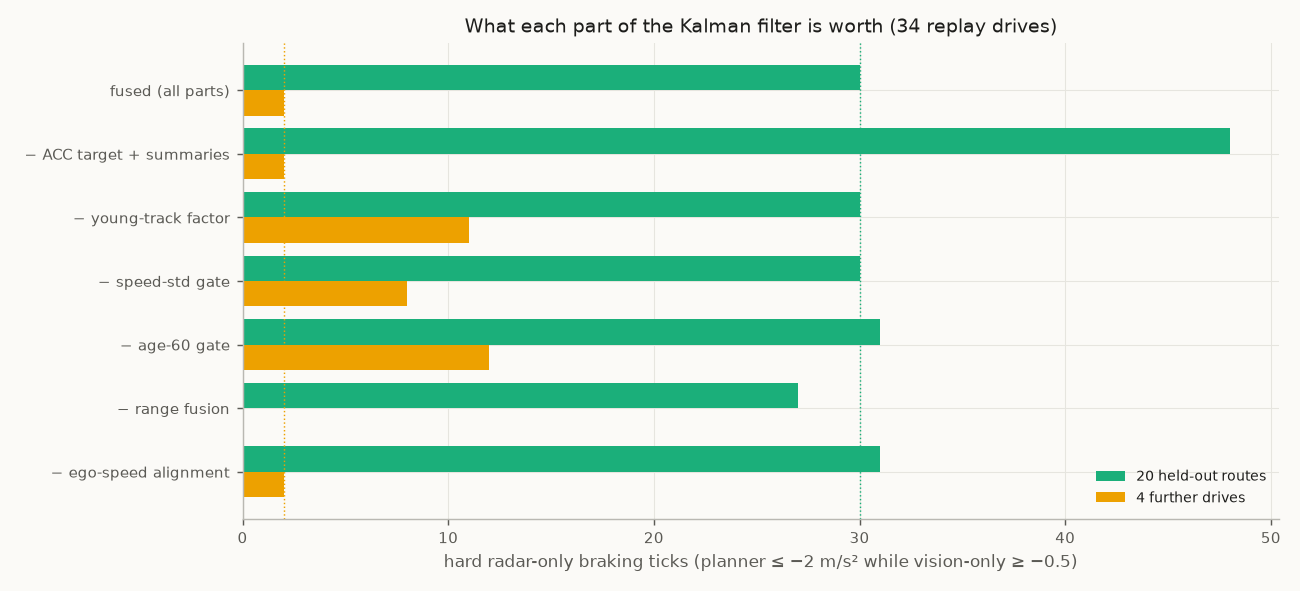
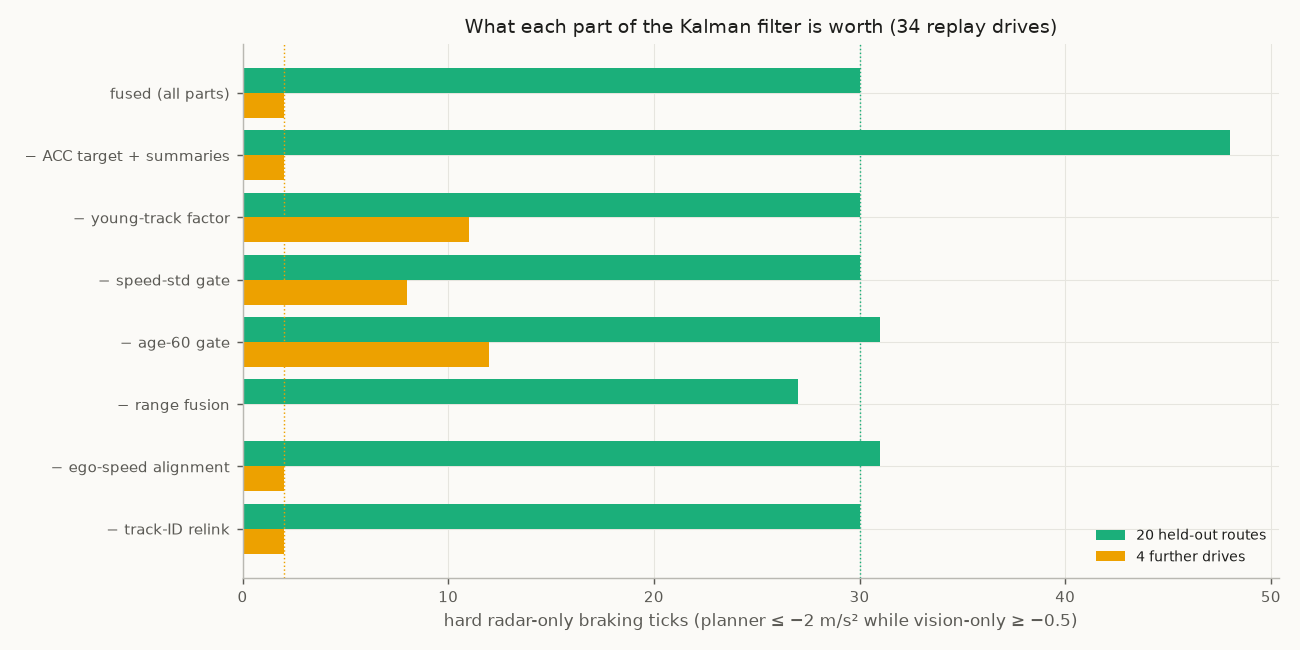
Slimming by combinations: fused drops the track-ID relink (identical on 34 + 8 drives); openpilot version = fused in one file (264 lines); combinations figure and docs/12 section

diff --git a/tools/make_fused_figures.py b/tools/make_fused_figures.py
@@ -208,7 +208,7 @@ def kalman_trace() -> None:
     class Traced(Ars510NativeRadarInterface):
         log: dict = {}
 
-        def _fused_speed(self, tid, time_s, obj, extra):
+        def _fused_speed(self, tid, time_s, obj, extra, v_ego=0.0):
             cfg = self.config
             sig = cfg.speed_sigma_per_code * max(obj.vel_unc_code, 1)
             if obj.age < cfg.young_age:
@@ -220,7 +220,7 @@ def kalman_trace() -> None:
                 p = st[2] + (cfg.lead_accel_std_mps2 * (time_s - st[0])) ** 2
                 for _, r in [(None, sig)] + list(extra):
                     k = p / (p + r * r); gains.append(k); p *= 1.0 - k
-            v, std = super()._fused_speed(tid, time_s, obj, extra)
+            v, std = super()._fused_speed(tid, time_s, obj, extra, v_ego)
             ego = self._fresh_ego_speed(time_s) or 0.0
             self.log.setdefault(tid, []).append(dict(t=time_s, raw=obj.v_long_ground * cfg.vground_scale - ego, v=v - ego,
                                                      std=std, sig=sig, n_extra=len(extra), gains=gains, d=obj.d_rel))
@@ -262,7 +262,7 @@ def kalman_ablation() -> None:
     rows = [("fused (all parts)", "none"), ("− ACC target + summaries", "acc_target_and_summaries"),
             ("− young-track factor", "young_track_factor"), ("− speed-std gate", "speed_std_publication_gate"),
             ("− age-60 gate", "age_60_publication_gate"), ("− range fusion", "range_fusion"),
-            ("− ego-speed alignment", "ego_speed_alignment")]
+            ("− ego-speed alignment", "ego_speed_alignment"), ("− track-ID relink", "track_id_relink")]
     rows += [(f"− {lab}", key) for key, lab in S.get("combinations_labels", {}).items()]
     rows = [(lab, S[key]) for lab, key in rows if isinstance(S.get(key), dict)]
     y = np.arange(len(rows))
@@ -276,7 +276,30 @@ def kalman_ablation() -> None:
     fig.tight_layout(); fig.savefig(OUT / "kalman_ablation.png", dpi=130); plt.close(fig)
 
 
+def kalman_combinations() -> None:
+    """Each tested version of the filter: lines in the openpilot file, its driving numbers, pass or fail (34 drives)."""
+    C = json.loads((REPO / "data" / "analysis" / "summaries" / "fused_filter.json").read_text())["combinations_34_drives"]
+    names = {"fused": "fused (all parts)", "no_L": "− track-ID relink", "no_SL": "− summaries − relink",
+             "no_SR": "− summaries − range fusion", "no_SRL": "− summaries − relink − range fusion",
+             "no_SRLYG": "all five removed (+ young factor, std gate)"}
+    why = {"no_SL": "1 extra target episode on owner drives", "no_SR": "lead switches +39%, target episodes 4 → 6",
+           "no_SRL": "lead switches +39%, target episodes 4 → 6", "no_SRLYG": "lead switches +39%, target episodes 4 → 5"}
+    rows = sorted(((names[k], k, C[k]) for k in names if k in C), key=lambda r: -r[2]["openpilot_file_lines"])
+    fig, ax = plt.subplots(figsize=(13.5, 0.62 * len(rows) + 1.3))
+    y = np.arange(len(rows))
+    ax.barh(y, [r["openpilot_file_lines"] for _, _, r in rows], color=[FUS if r["passes"] else S4 for _, _, r in rows], height=0.6)
+    for yi, (name, key, r) in zip(y, rows):
+        ax.text(r["openpilot_file_lines"] + 4, yi, f'{r["openpilot_file_lines"]} lines', va="center", fontsize=8.5, color=INK)
+        ax.text(375, yi, f'hard {r["heldout"]} / {r["further"]} / {r["owner"]}   target eps {r["target_episodes"]} (owner {r["owner_target_episodes"]})'
+                f'   switches {r["switches"]}', va="center", fontsize=8.2, color=INK2)
+        ax.text(700, yi, "passes" if r["passes"] else why.get(key, "fails"), va="center", fontsize=8.2,
+                color=FUS if r["passes"] else S4)
+    ax.set_yticks(y, [n for n, _, _ in rows]); ax.invert_yaxis(); ax.set_xlim(0, 960); ax.set_xticks([0, 100, 200, 300])
+    ax.set_xlabel("lines in the openpilot version (upstream/ars510_radar.py)")
+    ax.set_title("Fewest lines for the same driving: parts removed together (34 replay drives; hard ticks held-out / further / owner)")
+    fig.tight_layout(); fig.savefig(OUT / "kalman_combinations.png", dpi=130); plt.close(fig)
+
 if __name__ == "__main__":
     OUT.mkdir(parents=True, exist_ok=True)
-    how_it_works(); scenarios(); layers(); vs_vision(); kalman_variants(); kalman_trace(); kalman_ablation()
-    print("wrote", *(OUT / n for n in ("fused_how_it_works.png", "fused_scenarios_a.png", "fused_scenarios_b.png", "profile_layers.png", "profiles_vs_vision.png", "kalman_variants.png", "kalman_trace.png", "kalman_ablation.png")))
+    how_it_works(); scenarios(); layers(); vs_vision(); kalman_variants(); kalman_trace(); kalman_ablation(); kalman_combinations()
+    print("wrote", *(OUT / n for n in ("fused_how_it_works.png", "fused_scenarios_a.png", "fused_scenarios_b.png", "profile_layers.png", "profiles_vs_vision.png", "kalman_variants.png", "kalman_trace.png", "kalman_ablation.png", "kalman_combinations.png")))

diff --git a/ars510/interface.py b/ars510/interface.py
@@ -131,9 +131,12 @@ BASE_CONFIG = NativeInterfaceConfig(
     min_publish_age=60, relink_max_gap_s=3.5, vground_scale=0.149 / 0.15, drop_unresolved_vrel=True,
     drop_saturated_codes=True,
 )
-# The default install profile (docs/07, docs/11): the base decode plus range fusion and one uncertainty-weighted speed
-# filter per track that fuses the object list, the radar's ACC target and its summary ranges.
-FUSED_CONFIG = replace(BASE_CONFIG, range_fusion_gain=0.1, drop_saturated_codes=False, fused_speed_filter=True)
+# The default install profile (docs/12, docs/11): the base decode plus range fusion and one uncertainty-weighted speed
+# filter per track that fuses the object list, the radar's ACC target and its summary ranges. The track-ID relink and the
+# saturation guard of the base decode are off: neither changes the driving with the filter on (docs/12). The openpilot
+# version (upstream/ars510_radar.py) is this profile in one file.
+FUSED_CONFIG = replace(BASE_CONFIG, range_fusion_gain=0.1, relink_max_gap_s=0.0, drop_saturated_codes=False,
+                       fused_speed_filter=True)
 
 # Experimental (fork only, docs/12 "Kalman variants tested"): fused with the object-list error as a 1.2 s Gauss-Markov
 # bias state, noise scaled by ego speed and the radar's acceleration reading (fitted on the hidden-ACC teacher). 15%

diff --git a/tests/test_profiles_and_ports.py b/tests/test_profiles_and_ports.py
@@ -149,9 +149,9 @@ def test_legacy_upgrade_inside_parent_git_worktree_restores_originals(tmp_path):
   assert not (toyota / "ars510_radar_interface.py").exists()
 
 
-def test_fused_is_raw_plus_range_fusion_and_one_speed_filter_without_the_guard():
+def test_fused_is_raw_plus_range_fusion_and_one_speed_filter_without_relink_or_guard():
   from dataclasses import fields
   from ars510 import FUSED_CONFIG
   diff = {f.name for f in fields(BASE_CONFIG) if getattr(BASE_CONFIG, f.name) != getattr(FUSED_CONFIG, f.name)}
-  assert diff == {"range_fusion_gain", "drop_saturated_codes", "fused_speed_filter"}
+  assert diff == {"range_fusion_gain", "relink_max_gap_s", "drop_saturated_codes", "fused_speed_filter"}
   assert FUSED_CONFIG.range_fusion_gain == 0.1 and not FUSED_CONFIG.drop_saturated_codes

diff --git a/tests/test_upstream_candidate.py b/tests/test_upstream_candidate.py
@@ -10,14 +10,11 @@ from pathlib import Path
 
 import pytest
 
-from dataclasses import replace
-
 from ars510 import FUSED_CONFIG, BASE_CONFIG, Ars510NativeRadarInterface
 
 REPO = Path(__file__).resolve().parents[1]
 SAMPLES = sorted((REPO / "data" / "sample").glob("*.csv.gz"))
-# fused without the track-ID relink: identical driving on 34 replay drives and 8 fresh drives (docs/12)
-OPENPILOT_EQUIVALENT = replace(FUSED_CONFIG, relink_max_gap_s=0.0)
+OPENPILOT_EQUIVALENT = FUSED_CONFIG  # the openpilot version is the default profile in one file
 
 
 def _fake_opendbc() -> dict:

diff --git a/docs/12_kalman_filter.md b/docs/12_kalman_filter.md
@@ -72,8 +72,8 @@ stays radard's job; a speed + acceleration state here did worse ([below](#kalman
 
 ### 0. The plain decode (every profile)
 
-- **Rule:** publish from age 60 (~3.6 s); subtract 0xB4 ego speed (× 0.149/0.15); no point without a fresh ego speed;
-  keep a track's ID across losses ≤ 3.5 s.
+- **Rule:** publish from age 60 (~3.6 s); subtract 0xB4 ego speed (× 0.149/0.15); no point without a fresh ego speed.
+  `raw` also keeps a track's ID across losses ≤ 3.5 s (relink); `fused` does not need it.
 - **Why:** young tracks have unconverged range and speed ([02](02_object_list.md)); one NaN poisons radard's filter.
 
 ### 1. Saturation guard (`raw`)
@@ -104,6 +104,7 @@ Each part removed from `fused` on its own, 34 replay drives (hard radar-only tic
 | the age-60 publication gate (age 6) | 31 | 12 | 0 (radar-only braking ×3) | needed |
 | range fusion | 27 | 0 | 0 | braking neutral (milder radar-added episodes 1 → 3 in 4.6 h); kept for lead stability: radar ↔ vision lead switches +39% without it |
 | the ego-speed alignment (× 0.149/0.15) | 31 | 2 | 0 | neutral (onset +12 ms); one measured constant |
+| the track-ID relink | 30 | 2 | 0 | identical in every measure (lead switches 1770 vs 1772): removed |
 | the saturation guard | identical | identical | identical | removed: the 3σ update absorbs the sentinel |
 
 Against the earlier tuned profile: held-out hard ticks 48 → 30, target episodes 9 → 4, owner-drive target episodes
@@ -112,7 +113,30 @@ over-estimated closing speed (0.54 m/s more closing than vision before those dri
 Dropped variants: adapting the process noise follows far slot slides as if they were braking; without the robust
 clamp a +10 m/s spike passes.
 
-### Kalman variants tested
+## Removing parts together
+
+One-at-a-time removals can hide parts that only matter together, so the larger parts were also removed in combination
+on the same 34 drives. The rule for "same driving as `fused`" was fixed before the results:
+- held-out hard ticks ≤ 33 and further-drive hard ticks ≤ 4;
+- no hard ticks and no target episodes on the owner drives;
+- target episodes ≤ 5;
+- lead-source switches at most +15 %;
+- onset within ±0.03 s of `fused`.
+
+![fewest lines for the same driving](img/analysis/kalman_combinations.png)
+
+- **The track-ID relink is free:** removing it changes nothing.
+- **The summaries matter only at the margin:** without them (and relink), one mild extra slowdown appears on the owner
+  drives (−1.1 m/s² for 0.5 s at 103 m), which fails the rule.
+- **Range fusion keeps the lead stable:** every version without it flips between radar and vision leads about 39 % more
+  often.
+- **The young-track factor and the speed-std gate cost about 5 lines** and still help in the barest version.
+
+The smallest version with the same driving is `fused` without the relink. That is the default profile, and the
+openpilot version ([`upstream/ars510_radar.py`](../upstream/ars510_radar.py), 264 lines) is exactly this profile in
+one file ([`fused_filter.json`](../data/analysis/summaries/fused_filter.json) `combinations_34_drives`).
+
+## Kalman variants tested
 
 The single speed state of `fused` was compared with richer filters on an offline bench: every cycle of 8 drive groups,
 the radar's ACC target hidden as the reference, tuned on 3 groups and scored on the rest. The best candidates were then
@@ -133,7 +157,7 @@ The colored-noise filter is the textbook fix for the object list's slow, correla
 let go of a large drift that recovers. Real driving rewards letting go quickly, so `fused` keeps one speed state.
 The fork build keeps it as the experimental `colored` profile (`COLORED_CONFIG`) for road tests.
 
-### Other approaches tested
+## Other approaches tested
 
 None is in a profile.
 
@@ -145,7 +169,7 @@ None is in a profile.
 | camera-looming veto | no planner benefit |
 | Kalman filter with maneuver adaptation or a range state | follows far slot slides / biased by the range-speed mismatch ([fused](#the-model)) |
 
-### Earlier approach: tuned layers (removed)
+## Earlier approach: tuned layers (removed)
 
 Before the Kalman filter, five tuned layers each targeted one measured failure: far smoothing, a velocity-jump guard,
 far-track settling, a ramp limiter (+4 / −6 m/s²) and ±3 m/s clips to the ACC target and summaries (17 tuned

diff --git a/docs/08_openpilot_integration.md b/docs/08_openpilot_integration.md
@@ -39,8 +39,8 @@ One installer serves every fork: it copies the decoder and appends a 4-line hook
    reassembles 0x80 records, checks the CRC32 and decodes the 20 slots. Ego speed for vRel comes from 0xB4 on bus 0 in
    the same packets. Cost: about 9 µs per call on a desktop CPU.
 4. **Output.** `RadarPoint(trackId, dRel, yRel, vRel)` for tracks aged ≥ 60 cycles (with `fused`, also once their
-   speed is known to ±0.75 m/s), with track IDs re-linked across
-   short losses and no point published without a fresh ego speed (vRel is never NaN). Forks whose RadarPoint still
+   speed is known to ±0.75 m/s), with the radar's own track IDs (`raw` also re-links them across short losses) and no
+   point published without a fresh ego speed (vRel is never NaN). Forks whose RadarPoint still
    has the legacy fields (sunnypilot) also get:
    - `yvRel`: the radar's lateral ground velocity minus yaw rate × range, with the yaw rate from Toyota 0x24
      (matches the phone gyro at 1.02×). It follows d(yRel)/dt at r = 0.88 with slope 0.86, since the radar filters
@@ -103,7 +103,8 @@ What each setting does (examples and plots in [07](12_kalman_filter.md)):
 
 | setting | profiles | effect |
 |---|---|---|
-| `min_publish_age=60`, `relink_max_gap_s=3.5` | all | a track is published after ~3.6 s, once range and velocity have converged; a lost and re-found track keeps its ID |
+| `min_publish_age=60` | all | a track is published after ~3.6 s, once range and velocity have converged |
+| `relink_max_gap_s=3.5` | raw | a lost and re-found track keeps its ID; with the speed filter it changes nothing (34 drives), so `fused` leaves it off |
 | `vground_scale=0.149/0.15`, `drop_unresolved_vrel` | all | ego-speed alignment against Toyota 0xB4; no point without a fresh ego speed (radard's filter never recovers from NaN) |
 | `drop_saturated_codes` | raw | withholds the invalid velocity code 1023/0 and restarts the track ID afterwards (the filter's robust update absorbs it in `fused`) |
 | `range_fusion_gain=0.1` | fused | predicts dRel with vRel and corrects 10% toward the measurement: halves 1.5 s range walks |
@@ -114,7 +115,8 @@ What each setting does (examples and plots in [07](12_kalman_filter.md)):
 radard (openpilot, September 2026) runs at the model's 20 Hz:
 
 - **Kalman filter on vLead only.** One filter per track ID; a NaN vRel would poison it permanently (the interface
-  never publishes one). A new track ID resets it, which is why IDs are re-linked.
+  never publishes one). A new track ID resets it; `raw` therefore re-links IDs across short losses, while
+  `fused` hands radard an already filtered speed, so a reset changes nothing measurable there.
 - **Matching needs a vision lead.** radard matches a radar track to the vision lead while the lead probability is
   above 0.5, with a distance gate of max(5 m, 25%) and a permissive velocity check.
   Matching is evaluated each tick without previous-lead hysteresis; if the camera still selects the departing

diff --git a/docs/10_research_directions.md b/docs/10_research_directions.md
@@ -133,12 +133,13 @@ The closest relative in openpilot is the Tesla Model 3's Continental radar (`tes
 ## Towards an upstream (comma) interface
 
 The integration works on every fork without changing openpilot. For upstream there is a separate, single-file
-candidate: [`upstream/ars510_radar.py`](../upstream/ars510_radar.py) (about 300 lines). It holds the reassembler, the
-slot decode, track IDs, the ACC target / summary association and the same Kalman speed filter as `fused`, in opendbc's
-style. Constants are fixed in the file, there are no profiles, and points carry only `trackId`, `dRel`, `yRel` and
-`vRel` (the other RadarPoint fields are deprecated upstream). A test keeps it equal to `fused` point for point
-(bundled samples, plus two full drives checked once), and `install.py --profile openpilot` drives the candidate itself
-on a fork. What upstream review is likely to ask, from recent openpilot / opendbc radar PRs:
+candidate: [`upstream/ars510_radar.py`](../upstream/ars510_radar.py) (264 lines). It holds the reassembler, the slot
+decode, track IDs, the ACC target / summary association and the Kalman speed filter, in opendbc's style. It is the
+smallest version with the same driving as the full filter: parts were removed alone and together on 34 replay drives
+([12](12_kalman_filter.md#removing-parts-together)). Constants are fixed in the file, there are no profiles, and points
+carry only `trackId`, `dRel`, `yRel` and `vRel` (the other RadarPoint fields are deprecated upstream). A test keeps it
+equal to the default `fused` profile point for point (bundled samples; two full drives checked once), and
+`install.py --profile openpilot` drives it on a fork. What upstream review is likely to ask, from recent openpilot / opendbc radar PRs:
 
 1. **A clear reason the filter belongs in the interface.** Every upstream radar interface passes the radar's tracks
    through. The ARS510's object list has slow, correlated speed errors that the radar reports (`240|7`) but does not
